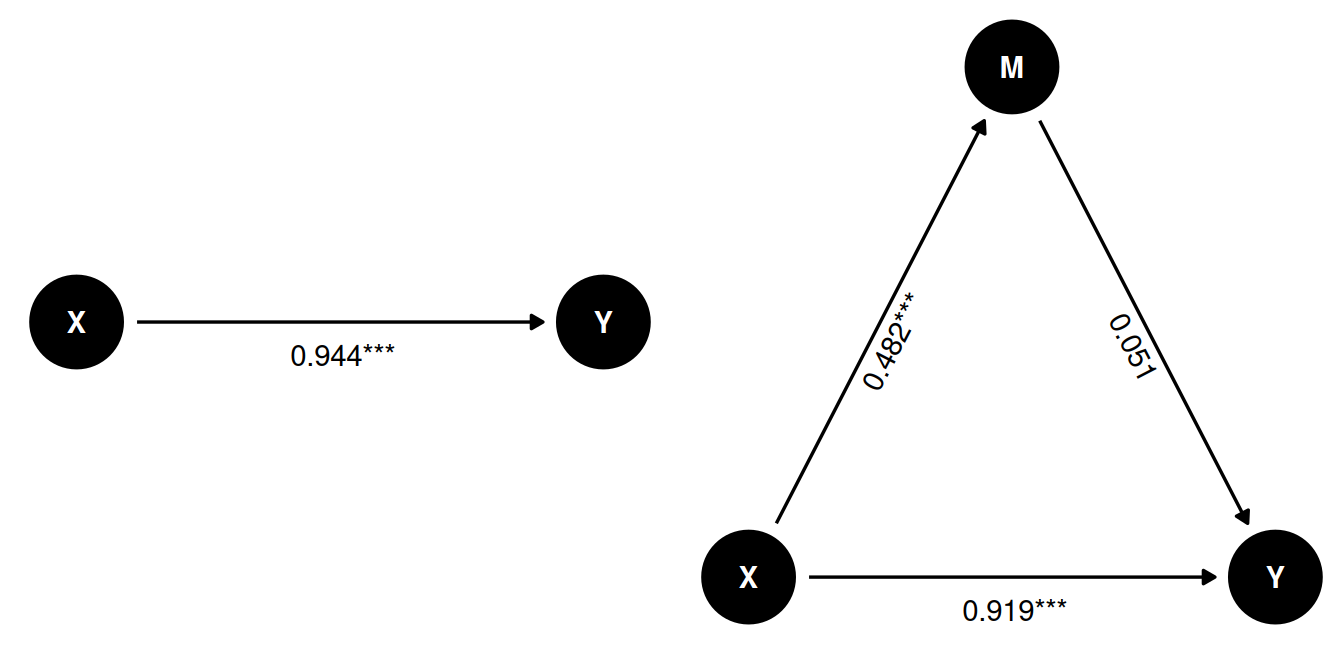
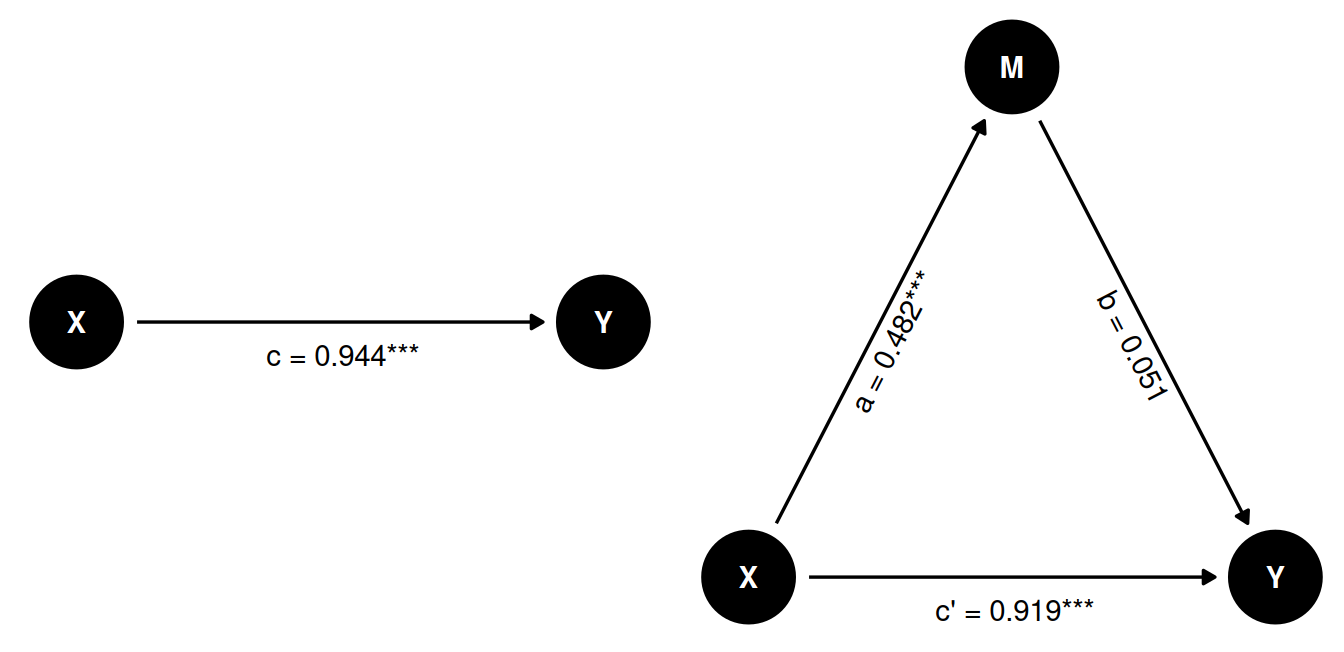
Built site for gh-pages

diff --git a/analysis/concepts/mediation.html b/analysis/concepts/mediation.html
@@ -451,18 +451,18 @@ window.Quarto = {
 </div>
 </div>
 </div>
-<p>In the left figure we see the <strong>total effect</strong> of <code>X</code> on <code>Y</code>. Here we only have one <strong>path</strong> from <code>X</code> to <code>Y</code>.</p>
+<p>In the left figure we see the <strong>total effect</strong> of <code>X</code> on <code>Y</code>. Here we only have one <strong>path</strong> from <code>X</code> to <code>Y</code>. In mediation analysis, the total effect is referred to as <strong>c</strong>.</p>
 <p>In the right figure, we see a mediation model, where the effect of <code>X</code> on <code>Y</code> is mediated by <code>M</code>. This gives us two different <strong>paths</strong> for how X to have an effect on Y:</p>
 <ul>
-<li><strong>direct effect</strong>. The direct path <code>X -&gt; Y</code>.</li>
-<li><strong>indirect effect</strong>. The indirect path <code>X -&gt; M</code> and <code>M -&gt; Y</code>. We can calculate the indirect effect by multiplying both arrows (<strong>a * b</strong>)</li>
+<li><strong>direct effect</strong>. The direct path <code>X -&gt; Y</code>, referred to as <strong>c’</strong>.</li>
+<li><strong>indirect effect</strong>. The indirect path <code>X -&gt; M</code> and <code>M -&gt; Y</code>, referred to as <strong>a</strong> and <strong>b</strong> respectively. We can calculate the indirect effect by multiplying both arrows (<strong>a * b</strong>)</li>
 </ul>
 <p>The mediated model can help us distinguish between different scenarios:</p>
 <ul>
-<li><strong>Full mediation</strong>: Only the indirect effect of <code>X</code> on <code>Y</code> through <code>M</code> is significant.</li>
-<li><strong>No mediation</strong>: Only the direct effect of <code>X</code> on <code>Y</code> is significant.</li>
-<li><strong>Partial mediation</strong>: Both the direct and indirect effects of <code>X</code> on <code>Y</code> are significant.</li>
-<li><strong>No effect</strong>: Neither the direct nor the indirect effect of <code>X</code> on <code>Y</code> is significant.</li>
+<li><strong>Full mediation</strong>: Only the indirect effect (<strong>a * b</strong>) is significant.</li>
+<li><strong>No mediation</strong>: Only the direct effect (<strong>c’</strong>) is significant.</li>
+<li><strong>Partial mediation</strong>: Both the direct and indirect effects are significant</li>
+<li><strong>No effect</strong>: Neither the direct nor the indirect effect is significant.</li>
 </ul>
 <p><strong>Note of caution:</strong> Theoretically, mediation models almost always suggest some sort of “causal chain”. Yet, the analysis itself cannot prove causality. The same caution applies as discussed in the <a href="../../analysis/concepts/causality.html">causality</a> section.</p>
 </section>
@@ -555,62 +555,60 @@ window.Quarto = {
 <span id="cb4-3"><a href="#cb4-3" aria-hidden="true" tabindex="-1"></a></span>
 <span id="cb4-4"><a href="#cb4-4" aria-hidden="true" tabindex="-1"></a><span class="fu">tab_model</span>(m1, m2)</span></code><button title="Copy to Clipboard" class="code-copy-button"><i class="bi"></i></button></pre></div>
 <div class="cell-output-display">
-<table class="caption-top table table-sm table-striped small" data-quarto-postprocess="true">
-<tbody>
-<tr class="odd">
-<td data-quarto-table-cell-role="th" style="text-align: center; border-top: double; font-style: normal; font-weight: bold; padding: 0.2cm;">&nbsp;</td>
-<td colspan="3" data-quarto-table-cell-role="th" style="text-align: center; border-top: double; font-style: normal; font-weight: bold; padding: 0.2cm;">M</td>
-<td colspan="3" data-quarto-table-cell-role="th" style="text-align: center; border-top: double; font-style: normal; font-weight: bold; padding: 0.2cm;">Y</td>
+<table style="border-collapse:collapse; border:none;">
+<tbody><tr>
+<th style="border-top: double; text-align:center; font-style:normal; font-weight:bold; padding:0.2cm;  text-align:left; ">&nbsp;</th>
+<th colspan="3" style="border-top: double; text-align:center; font-style:normal; font-weight:bold; padding:0.2cm; ">M</th>
+<th colspan="3" style="border-top: double; text-align:center; font-style:normal; font-weight:bold; padding:0.2cm; ">Y</th>
 </tr>
-<tr class="even">
-<td style="text-align: center; border-bottom: 1px solid; font-style: italic; font-weight: normal;">Predictors</td>
-<td style="text-align: center; border-bottom: 1px solid; font-style: italic; font-weight: normal;">Estimates</td>
-<td style="text-align: center; border-bottom: 1px solid; font-style: italic; font-weight: normal;">CI</td>
-<td style="text-align: center; border-bottom: 1px solid; font-style: italic; font-weight: normal;">p</td>
-<td style="text-align: center; border-bottom: 1px solid; font-style: italic; font-weight: normal;">Estimates</td>
-<td style="text-align: center; border-bottom: 1px solid; font-style: italic; font-weight: normal;">CI</td>
-<td style="text-align: center;">p</td>
+<tr>
+<td style=" text-align:center; border-bottom:1px solid; font-style:italic; font-weight:normal;  text-align:left; ">Predictors</td>
+<td style=" text-align:center; border-bottom:1px solid; font-style:italic; font-weight:normal;  ">Estimates</td>
+<td style=" text-align:center; border-bottom:1px solid; font-style:italic; font-weight:normal;  ">CI</td>
+<td style=" text-align:center; border-bottom:1px solid; font-style:italic; font-weight:normal;  ">p</td>
+<td style=" text-align:center; border-bottom:1px solid; font-style:italic; font-weight:normal;  ">Estimates</td>
+<td style=" text-align:center; border-bottom:1px solid; font-style:italic; font-weight:normal;  ">CI</td>
+<td style=" text-align:center; border-bottom:1px solid; font-style:italic; font-weight:normal;  col7">p</td>
 </tr>
-<tr class="odd">
-<td style="text-align: left; padding: 0.2cm; vertical-align: top;">(Intercept)</td>
-<td style="text-align: left; padding: 0.2cm; vertical-align: top;">0.01</td>
-<td style="text-align: left; padding: 0.2cm; vertical-align: top;">-0.57&nbsp;–&nbsp;0.59</td>
-<td style="text-align: left; padding: 0.2cm; vertical-align: top;">0.973</td>
-<td style="text-align: left; padding: 0.2cm; vertical-align: top;">-0.48</td>
-<td style="text-align: left; padding: 0.2cm; vertical-align: top;">-1.30&nbsp;–&nbsp;0.34</td>
-<td style="text-align: center;">0.250</td>
+<tr>
+<td style=" padding:0.2cm; text-align:left; vertical-align:top; text-align:left; ">(Intercept)</td>
+<td style=" padding:0.2cm; text-align:left; vertical-align:top; text-align:center;  ">0.01</td>
+<td style=" padding:0.2cm; text-align:left; vertical-align:top; text-align:center;  ">-0.57&nbsp;–&nbsp;0.59</td>
+<td style=" padding:0.2cm; text-align:left; vertical-align:top; text-align:center;  ">0.973</td>
+<td style=" padding:0.2cm; text-align:left; vertical-align:top; text-align:center;  ">-0.48</td>
+<td style=" padding:0.2cm; text-align:left; vertical-align:top; text-align:center;  ">-1.30&nbsp;–&nbsp;0.34</td>
+<td style=" padding:0.2cm; text-align:left; vertical-align:top; text-align:center;  col7">0.250</td>
 </tr>
-<tr class="even">
-<td style="text-align: left; padding: 0.2cm; vertical-align: top;">X</td>
-<td style="text-align: left; padding: 0.2cm; vertical-align: top;">0.48</td>
-<td style="text-align: left; padding: 0.2cm; vertical-align: top;">0.30&nbsp;–&nbsp;0.67</td>
-<td style="text-align: left; padding: 0.2cm; vertical-align: top;"><strong>&lt;0.001</strong></td>
-<td style="text-align: left; padding: 0.2cm; vertical-align: top;">0.92</td>
-<td style="text-align: left; padding: 0.2cm; vertical-align: top;">0.65&nbsp;–&nbsp;1.19</td>
-<td style="text-align: center;"><strong>&lt;0.001</strong></td>
+<tr>
+<td style=" padding:0.2cm; text-align:left; vertical-align:top; text-align:left; ">X</td>
+<td style=" padding:0.2cm; text-align:left; vertical-align:top; text-align:center;  ">0.48</td>
+<td style=" padding:0.2cm; text-align:left; vertical-align:top; text-align:center;  ">0.30&nbsp;–&nbsp;0.67</td>
+<td style=" padding:0.2cm; text-align:left; vertical-align:top; text-align:center;  "><strong>&lt;0.001</strong></td>
+<td style=" padding:0.2cm; text-align:left; vertical-align:top; text-align:center;  ">0.92</td>
+<td style=" padding:0.2cm; text-align:left; vertical-align:top; text-align:center;  ">0.65&nbsp;–&nbsp;1.19</td>
+<td style=" padding:0.2cm; text-align:left; vertical-align:top; text-align:center;  col7"><strong>&lt;0.001</strong></td>
 </tr>
-<tr class="odd">
-<td style="text-align: left; padding: 0.2cm; vertical-align: top;">M</td>
-<td style="text-align: left; padding: 0.2cm; vertical-align: top;"></td>
-<td style="text-align: left; padding: 0.2cm; vertical-align: top;"></td>
-<td style="text-align: left; padding: 0.2cm; vertical-align: top;"></td>
-<td style="text-align: left; padding: 0.2cm; vertical-align: top;">0.30</td>
-<td style="text-align: left; padding: 0.2cm; vertical-align: top;">0.18&nbsp;–&nbsp;0.43</td>
-<td style="text-align: center;"><strong>&lt;0.001</strong></td>
+<tr>
+<td style=" padding:0.2cm; text-align:left; vertical-align:top; text-align:left; ">M</td>
+<td style=" padding:0.2cm; text-align:left; vertical-align:top; text-align:center;  "></td>
+<td style=" padding:0.2cm; text-align:left; vertical-align:top; text-align:center;  "></td>
+<td style=" padding:0.2cm; text-align:left; vertical-align:top; text-align:center;  "></td>
+<td style=" padding:0.2cm; text-align:left; vertical-align:top; text-align:center;  ">0.30</td>
+<td style=" padding:0.2cm; text-align:left; vertical-align:top; text-align:center;  ">0.18&nbsp;–&nbsp;0.43</td>
+<td style=" padding:0.2cm; text-align:left; vertical-align:top; text-align:center;  col7"><strong>&lt;0.001</strong></td>
 </tr>
-<tr class="even">
-<td style="text-align: left; padding: 0.2cm; vertical-align: top; padding-top: 0.1cm; padding-bottom: 0.1cm; border-top: 1px solid;">Observations</td>
-<td colspan="3" style="text-align: left; padding: 0.2cm; vertical-align: top; padding-top: 0.1cm; padding-bottom: 0.1cm; border-top: 1px solid;">500</td>
-<td colspan="3" style="text-align: left; padding: 0.2cm; vertical-align: top; padding-top: 0.1cm; padding-bottom: 0.1cm; border-top: 1px solid;">500</td>
+<tr>
+<td style=" padding:0.2cm; text-align:left; vertical-align:top; text-align:left; padding-top:0.1cm; padding-bottom:0.1cm; border-top:1px solid;">Observations</td>
+<td style=" padding:0.2cm; text-align:left; vertical-align:top; padding-top:0.1cm; padding-bottom:0.1cm; text-align:left; border-top:1px solid;" colspan="3">500</td>
+<td style=" padding:0.2cm; text-align:left; vertical-align:top; padding-top:0.1cm; padding-bottom:0.1cm; text-align:left; border-top:1px solid;" colspan="3">500</td>
 </tr>
-<tr class="odd">
-<td style="text-align: left; padding: 0.2cm; vertical-align: top; padding-top: 0.1cm; padding-bottom: 0.1cm;">R<sup>2</sup> / R<sup>2</sup> adjusted</td>
-<td colspan="3" style="text-align: left; padding: 0.2cm; vertical-align: top; padding-top: 0.1cm; padding-bottom: 0.1cm;">0.049 / 0.047</td>
-<td colspan="3" style="text-align: left; padding: 0.2cm; vertical-align: top; padding-top: 0.1cm; padding-bottom: 0.1cm;">0.148 / 0.145</td>
+<tr>
+<td style=" padding:0.2cm; text-align:left; vertical-align:top; text-align:left; padding-top:0.1cm; padding-bottom:0.1cm;">R<sup>2</sup> / R<sup>2</sup> adjusted</td>
+<td style=" padding:0.2cm; text-align:left; vertical-align:top; padding-top:0.1cm; padding-bottom:0.1cm; text-align:left;" colspan="3">0.049 / 0.047</td>
+<td style=" padding:0.2cm; text-align:left; vertical-align:top; padding-top:0.1cm; padding-bottom:0.1cm; text-align:left;" colspan="3">0.148 / 0.145</td>
 </tr>
-</tbody>
-</table>
 
+</tbody></table>
 
 </div>
 </div>
@@ -625,7 +623,7 @@ window.Quarto = {
 </div>
 </div>
 <p>We can see that all paths are significant, suggesting that there is both a direct and indirect effect of <code>X</code> on <code>Y</code>. In other words, this is a <strong>partial mediation</strong>.</p>
-<p>We can calculate the indirect effect by multiplying the coefficients of the two paths:</p>
+<p>We can calculate the <strong>indirect effect</strong> by multiplying the coefficients of the two paths:</p>
 <p><span class="math display">\[a \times b = 0.482 \times 0.301 = 0.145\]</span></p>
 <div class="callout callout-style-default callout-warning callout-titled" title="Testing the significance of the indirect effect">
 <div class="callout-header d-flex align-content-center" data-bs-toggle="collapse" data-bs-target=".callout-1-contents" aria-controls="callout-1" aria-expanded="false" aria-label="Toggle callout">
@@ -640,7 +638,7 @@ Testing the significance of the indirect effect
 <div id="callout-1" class="callout-1-contents callout-collapse collapse">
 <div class="callout-body-container callout-body">
 <p>If both parts of the indirect effect (<strong>a * b</strong>) are significant, there is a good chance that the indirect effect is significant. And similarly, if one part is not significant, the indirect effect is likely not significant. However, this is not always the case, so it is better to explicitly test the significance of the indirect effect.</p>
-<p>This is not straightforward, and requires more advanced techniques, such as bootstrapping or Monte-Carlo simulations. We will not cover these techniques in this tutorial, because it distracts from the goal of teaching the basic concept of mediation. Just be aware that this is a limitation of the simple mediation analyses we have shown here, and that it is therefore better to use advanced techniques or specialized packages for mediation analyses in actual research.</p>
+<p>This is not straightforward, and requires more advanced techniques, such as bootstrapping or Monte-Carlo simulations. We will not cover these techniques in this tutorial, because it distracts from the goal of teaching the basic concept of mediation. Just be aware that this is a limitation of the simple mediation analyses we have shown here, and that it is therefore better to use advanced techniques or specialized packages for mediation analyses in actual research. At the end of this tutorial we also show you how to use the <code>PROCESS</code> package to test for mediation, which implements the bootstrapping technique.</p>
 </div>
 </div>
 </div>
@@ -855,19 +853,12 @@ No mediation example
 </section>
 <section id="testing-mediation-using-process" class="level1">
 <h1>Testing mediation using PROCESS</h1>
-<p>The <code>PROCESS</code> macro for SPSS and SAS is a popular tool for mediation analyses. It is also available in R, using the <code>bruceR</code> package. Here we show you how to use PROCESS, using the same simulated data (<code>d</code>) as before. If you compare the results with our own manual analysis, you’ll see that the direct, total and indirect (a*b) effects are the same. But one important difference is that PROCESS also provides an explicit confidence interval for the indirect effect, based on bootstrapping.</p>
-<p>To use <code>PROCESS</code>, you simply provide the data frame, and specify the column names for the dependent variable (<code>y = "Y"</code>), the independent variable (<code>x = "X"</code>), and the mediator (<code>meds = "M"</code>).</p>
+<p>The <code>PROCESS</code> macro for SPSS and SAS is a popular tool for mediation analyses. It is also available in R, using the <code>bruceR</code> package. Here we show you how to use PROCESS, using the same simulated data (<code>d</code>) as before. To use <code>PROCESS</code>, you simply provide the data frame, and specify the column names for the dependent variable (<code>y = "Y"</code>), the independent variable (<code>x = "X"</code>), and the mediator (<code>meds = "M"</code>).</p>
+<p>The output is a bit overwhelming, but you should recognize the same components as we discussed before. The <strong>Model Summary</strong> shows the three regression models. The <strong>Part 2. Mediation/Moderation Effect Estimate</strong> shows the total (<strong>c</strong>), direct (<strong>c’</strong>) and indirect (<strong>a * b</strong>) effects. If you compare the effect sizes with the ones we calculated manually, you will see that they are the same. But one important difference is that PROCESS also provides an explicit confidence interval for the indirect effect, based on bootstrapping.</p>
 <div class="cell">
 <div class="sourceCode cell-code" id="cb8"><pre class="sourceCode r code-with-copy"><code class="sourceCode r"><span id="cb8-1"><a href="#cb8-1" aria-hidden="true" tabindex="-1"></a><span class="fu">library</span>(bruceR)</span>
 <span id="cb8-2"><a href="#cb8-2" aria-hidden="true" tabindex="-1"></a></span>
-<span id="cb8-3"><a href="#cb8-3" aria-hidden="true" tabindex="-1"></a><span class="fu">set.seed</span>(<span class="dv">42</span>)</span>
-<span id="cb8-4"><a href="#cb8-4" aria-hidden="true" tabindex="-1"></a>n <span class="ot">&lt;-</span> <span class="dv">500</span></span>
-<span id="cb8-5"><a href="#cb8-5" aria-hidden="true" tabindex="-1"></a>X <span class="ot">&lt;-</span> <span class="fu">rnorm</span>(n, <span class="dv">3</span>, <span class="dv">1</span>)</span>
-<span id="cb8-6"><a href="#cb8-6" aria-hidden="true" tabindex="-1"></a>M <span class="ot">&lt;-</span> <span class="fl">0.5</span><span class="sc">*</span>X <span class="sc">+</span> <span class="fu">rnorm</span>(n, <span class="dv">0</span>, <span class="dv">2</span>)</span>
-<span id="cb8-7"><a href="#cb8-7" aria-hidden="true" tabindex="-1"></a>Y <span class="ot">&lt;-</span> <span class="fl">0.3</span><span class="sc">*</span>M <span class="sc">+</span> <span class="fl">0.8</span><span class="sc">*</span>X <span class="sc">+</span> <span class="fu">rnorm</span>(n, <span class="dv">0</span>, <span class="dv">3</span>)</span>
-<span id="cb8-8"><a href="#cb8-8" aria-hidden="true" tabindex="-1"></a>d <span class="ot">&lt;-</span> <span class="fu">tibble</span>(X,M,Y)</span>
-<span id="cb8-9"><a href="#cb8-9" aria-hidden="true" tabindex="-1"></a></span>
-<span id="cb8-10"><a href="#cb8-10" aria-hidden="true" tabindex="-1"></a><span class="fu">PROCESS</span>(d, <span class="at">y=</span><span class="st">"Y"</span>, <span class="at">x=</span><span class="st">"X"</span>, <span class="at">meds=</span><span class="st">"M"</span>)</span></code><button title="Copy to Clipboard" class="code-copy-button"><i class="bi"></i></button></pre></div>
+<span id="cb8-3"><a href="#cb8-3" aria-hidden="true" tabindex="-1"></a><span class="fu">PROCESS</span>(d, <span class="at">y=</span><span class="st">"Y"</span>, <span class="at">x=</span><span class="st">"X"</span>, <span class="at">meds=</span><span class="st">"M"</span>)</span></code><button title="Copy to Clipboard" class="code-copy-button"><i class="bi"></i></button></pre></div>
 <div class="cell-output cell-output-stdout">
 <pre><code>
 ****************** PART 1. Regression Model Summary ******************
@@ -926,9 +917,9 @@ Indirect Path: "X" (X) ==&gt; "M" (M) ==&gt; "Y" (Y)
 ────────────────────────────────────────────────────────────
                Effect    S.E.     z     p      [Boot 95% CI]
 ────────────────────────────────────────────────────────────
-Indirect (ab)   0.145 (0.041) 3.546 &lt;.001 *** [0.075, 0.214]
-Direct (c')     0.919 (0.117) 7.843 &lt;.001 *** [0.657, 1.087]
-Total (c)       1.065 (0.115) 9.245 &lt;.001 *** [0.826, 1.230]
+Indirect (ab)   0.145 (0.041) 3.540 &lt;.001 *** [0.082, 0.232]
+Direct (c')     0.919 (0.146) 6.308 &lt;.001 *** [0.643, 1.186]
+Total (c)       1.065 (0.140) 7.609 &lt;.001 *** [0.798, 1.328]
 ────────────────────────────────────────────────────────────
 Percentile Bootstrap Confidence Interval
 (SE and CI are estimated based on 100 Bootstrap samples.)
